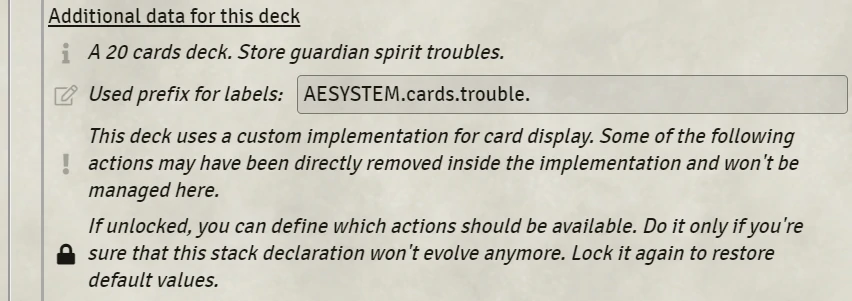
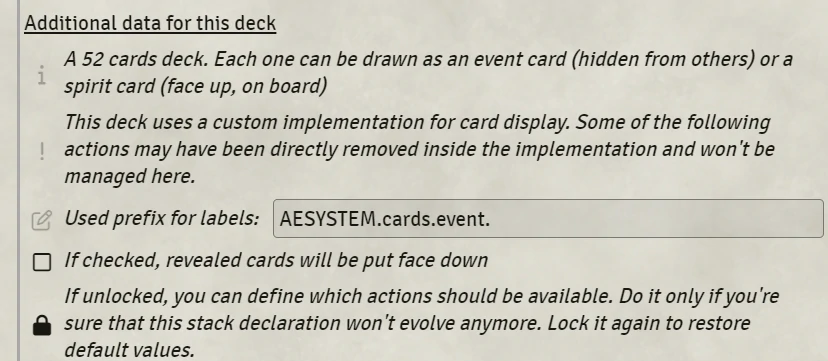
Revealed cards are put face down when option is chosen

Changed region(s): [[0.0, 0.0, 0.9964, 1.0]]

diff --git a/module/CustomCardStack.js b/module/CustomCardStack.js
@@ -53,6 +53,7 @@ const optionsForDiscardedCards = ( discardStack ) => {
     
     const discardFlags = {};
     discardFlags['flags.ready-to-use-cards.discardOrder'] = maxDiscardOrder + 1;
+    discardFlags['flags.ready-to-use-cards.currentFace'] = 0;
     options.updateData = discardFlags;
     return options;
 }
@@ -125,6 +126,25 @@ export class CustomCardStack {
 
     get frontDefaultImage() {
         return deckBacksSettings(this.coreStackRef).discardBg;
+    }
+
+    /**
+     * Multiple parameters can induce the back to be a valid face
+     * As long as one is checked, the back will be considered as a valid face
+     */
+    get backIsAValidFaceForCards() {
+
+        // CoreParam 'revealedFaceDown' can need the back to be a valid face
+        const putFaceDown = this.module.parameterService.areRevealedCardsPutFaceDown(this.coreStackRef);
+        if(putFaceDown) {
+            return true;
+        }
+
+        // Flip action can need the back to be a valid face
+        const possibilities = this.module.actionService.getActionPossibilities(this.coreStackRef, ["flipCard"]);
+        const actionDef = possibilities.find( a => a.action === "flip" );
+        const paramValue = actionDef?.parameters.find(p => p.param = "includeBack").current;
+        return paramValue && this.module.parameterService.parseBoolean(paramValue);
     }
 
     /**
@@ -236,6 +256,65 @@ export class CustomCardStack {
         } else {
             return owner === game.user.id;
         }
+    }
+
+    /**
+     * Convenience function
+     * Sort cards from this stack and return multiple arrays. One for each face amount and core stacks
+     * Ids which weren't found are ignored
+     * @param {string} cardIds Id for cards which should be is this stack
+     * @returns Array of { nbFaces: int, deck: CustomCards, cards: Card[] }
+     */
+    sortCardsByFaceAmountAndSource(cardIds) {
+
+        const customCards = this.sortedCardList.filter( c => cardIds.includes(c.id) ).map( c => new CustomCardGUIWrapper(c) );
+        const result = [];
+        customCards.forEach( c => {
+            const deck = c._custom;
+            const nbFaces = c.allFaces.length;
+            const existing = result.find( r => r.nbFaces == nbFaces && r.deck.coreStackRef === deck.coreStackRef );
+            if( existing ) {
+                existing.cards.push( c.card );
+            } else {
+                result.push({
+                    nbFaces: nbFaces,
+                    deck: deck,
+                    cards: [c.card]
+                });
+            }
+        });
+        return result;
+    }
+
+    /**
+     * Convenience function
+     * After sorted cards by nbFaces and coreStack, check for each stack if it needs to put revealed cards face down
+     * Those who doesn't need it are push in a simple card list .noNeed
+     * The others are push in sub lists inside .need
+     * @param {string} cardIds Id for cards which should be is this stack
+     * @returns {noNeed: Card[], need: { nbFaces: int, cards: Card[] }[] }
+     */
+    splitBetweenThoseNeedingFaceDownAndTheOthers(cardIds) {
+        const sorted = this.sortCardsByFaceAmountAndSource(cardIds);
+
+        const noNeedFaceDown = []; // Card[]
+        const needFaceDown = []; // { nbFaces: int, cards: Card[] }
+        sorted.forEach( res => {
+            const revealedFaceDown = this.module.parameterService.areRevealedCardsPutFaceDown(res.deck.coreStackRef);
+            if( !revealedFaceDown ) {
+                noNeedFaceDown.push(... res.cards);
+            } else {
+                const existing = needFaceDown.find( nfd => nfd.nbFaces === res.nbFaces );
+                if( existing ) {
+                    existing.cards.push(... res.cards);
+                } else {
+                    const newOne = { nbFaces: res.nbFaces, cards: [] };
+                    newOne.cards.push(...res.cards);
+                    needFaceDown.push(newOne);
+                }
+            }
+        });
+        return { noNeed: noNeedFaceDown, need: needFaceDown };
     }
 
     /* -------------------------------------------- 
@@ -648,10 +727,36 @@ export class CustomCardStack {
         const owner = this.stackOwner;
         const hand = owner.forGMs ? this.cardStacks.gmHand
                                   : this.cardStacks.findPlayerHand( game.users.get(owner.playerId) );
-        const cards = await this.stack.pass( hand.stack, cardIds, {chatNotification: false});
 
-        const flavor = this.getCardMessageFlavor('pile', 'backToHand', cardIds.length);
-        await this.sendMessageForCards(flavor,  cards );
+
+        // Revealed face down management
+        //-----------------------------
+        const cards = [];
+        const options = {chatNotification: false};
+        const splitted = this.splitBetweenThoseNeedingFaceDownAndTheOthers(cardIds);
+        if( splitted.noNeed.length > 0 ) {
+            const newCards = await this.stack.pass( hand.stack, splitted.noNeed.map(c => c.id) , options);
+            cards.push(...newCards);
+
+            const flavor = this.getCardMessageFlavor('pile', 'backToHand', newCards.length);
+            await this.sendMessageForCards(flavor, cards);
+        }
+
+        if( splitted.need.length > 0 ) {
+            options.updateData = {};
+            options.updateData['flags.ready-to-use-cards.currentFace'] = 0;
+
+            const idsToRetrieve = splitted.need.reduce( (_res, _curr) => {
+                _res.push(... _curr.cards.map(c => c.id) );
+                return _res;
+            }, []);
+
+            const newCards =  await this.stack.pass( hand.stack, idsToRetrieve, options);
+            cards.push(... newCards);
+
+            const flavor = this.getCardMessageFlavor('pile', 'backToHand', newCards.length);
+            await this.sendMessageForCards(flavor, cards, {hideToStrangers: true} );
+        }
         return cards;
     }
 
@@ -728,13 +833,34 @@ export class CustomCardStack {
         const pile = owner.forGMs ? this.cardStacks.gmRevealedCards
                                   : this.cardStacks.findRevealedCards( game.users.get(owner.playerId) );
 
+        // Revealed face down management
+        //-----------------------------
         const options = {chatNotification: false};
-        const p = this.module.paramService;
-        const revealHiden = p.parseBoolean( p.getParam( this.coreStackRef, "transferCards", "reveal", "hidden" ) );
+        const cards = [];
+        const splitted = this.splitBetweenThoseNeedingFaceDownAndTheOthers(cardIds);
+        if( splitted.noNeed.length > 0 ) {
+            const newCards = await this.stack.pass( pile.stack, splitted.noNeed.map(c => c.id) , options);
+            cards.push(...newCards);
 
-        const cards = await this.stack.pass( pile.stack, cardIds, {chatNotification: false});
-        const flavor = this.getCardMessageFlavor('hand', 'reveal', cardIds.length);
-        await this.sendMessageForCards(flavor, cards, {addCardDescription: true} );
+            const flavor = this.getCardMessageFlavor('hand', 'reveal', newCards.length);
+            await this.sendMessageForCards(flavor, cards, {addCardDescription: true} );
+        }
+
+        if( splitted.need.length > 0 ) {
+            options.updateData = {};
+
+            const newCards = [];
+            for( let need of splitted.need ) {
+                options.updateData['flags.ready-to-use-cards.currentFace'] = need.nbFaces - 1;
+                const cardList =  await this.stack.pass( pile.stack, need.cards.map(c => c.id) , options);
+                newCards.push(... cardList);
+            }
+            cards.push(... newCards);
+
+            const flavor = this.getCardMessageFlavor('hand', 'reveal', newCards.length);
+            await this.sendMessageForCards(flavor, cards, {addCardDescription: true, hideToStrangers: true} );
+        }
+
         return cards;
     }
 

diff --git a/module/mainui/CustomCardGUIWrapper.js b/module/mainui/CustomCardGUIWrapper.js
@@ -46,25 +46,6 @@ export class CustomCardGUIWrapper {
 
 
     /**
-     * Multiple parameters can induce the back to be a valid face
-     * As long as one is checked, the back will be considered as a valid face
-     */
-    get backIsAValidFace() {
-
-        // CoreParam 'revealedFaceDown' can need the back to be a valid face
-        const putFaceDown = this.paramService.areRevealedCardsPutFaceDown(this._custom.coreStackRef);
-        if(putFaceDown) {
-            return true;
-        }
-
-        // Flip action can need the back to be a valid face
-        const possibilities = this.actionService.getActionPossibilities(this._custom.coreStackRef, ["flipCard"]);
-        const actionDef = possibilities.find( a => a.action === "flip" );
-        const paramValue = actionDef?.parameters.find(p => p.param = "includeBack").current;
-        return paramValue && this.paramService.parseBoolean(paramValue);
-    }
-
-    /**
      * Manage all faces with default values.
      * If settings says so, alos add the back as the last face
      */
@@ -84,7 +65,7 @@ export class CustomCardGUIWrapper {
             });
     
             // Multiple parameters can induce back to be a valid face
-            if( this.backIsAValidFace ) {
+            if( this._custom.backIsAValidFaceForCards ) {
                 const back = {
                     name: this._card.back?.name,
                     text: this._card.back?.text,

diff --git a/module/mainui/CardsDisplay.js b/module/mainui/CardsDisplay.js
@@ -251,7 +251,8 @@ export class CustomCardsDisplay extends CardsConfig {
         } else {
             // Choosing background depending on the selected card. Or by default the one in xxx/background/back.webp
             let background = card?.back.img;
-            if(!background || background == 'icons/svg/card-joker.svg') {
+            const isStackIcon = this._custom.stack.img === background;
+            if(!background || isStackIcon || background == 'icons/svg/card-joker.svg') {
                 const type = this._cards.type;
                 const owner = this._custom.stackOwner;
                 const coreRef = this._custom.coreStackRef;

diff --git a/README.md b/README.md
@@ -89,6 +89,12 @@ It indicates RTUC where to search for labels when cards of this deck are played.
 
 You will have more details on how this works inside [README LABELS](./README_DEVELOPERS.md)
 
+**Revealed cards put face down**
+
+By default, revealed cards are handled the same way the some way has the hand stacks. This options can allow players to reveal cards face down.
+
+When this option is chosen, the revealed cards are directly put face down and the other players don't see anything in chat. (Same behavior as when players draw cards in their hand)
+
 **The deck configuration is locked**
 
 This parameter only appear when a deck has been registred inside RTUC via hooks. By unlocking it, you will be able to modify what has been defined in the hook.

diff --git a/CHANGELOG.md b/CHANGELOG.md
@@ -4,6 +4,11 @@
 
 ### Features
 - Inside deck configuration : Now properly using checkboxes for parameters when manipulating booleans
+- Since last versions, card background were not correctly detected and were replaced by icons : Fixed
+- New parameter for stacks : Revealed cards can be put face down.
+
+### Translation
+- Added labels : `RTUCards.settings.config-actions.additionalData.revealedFaceDown`
 
 ## Release 1.11.0
 
